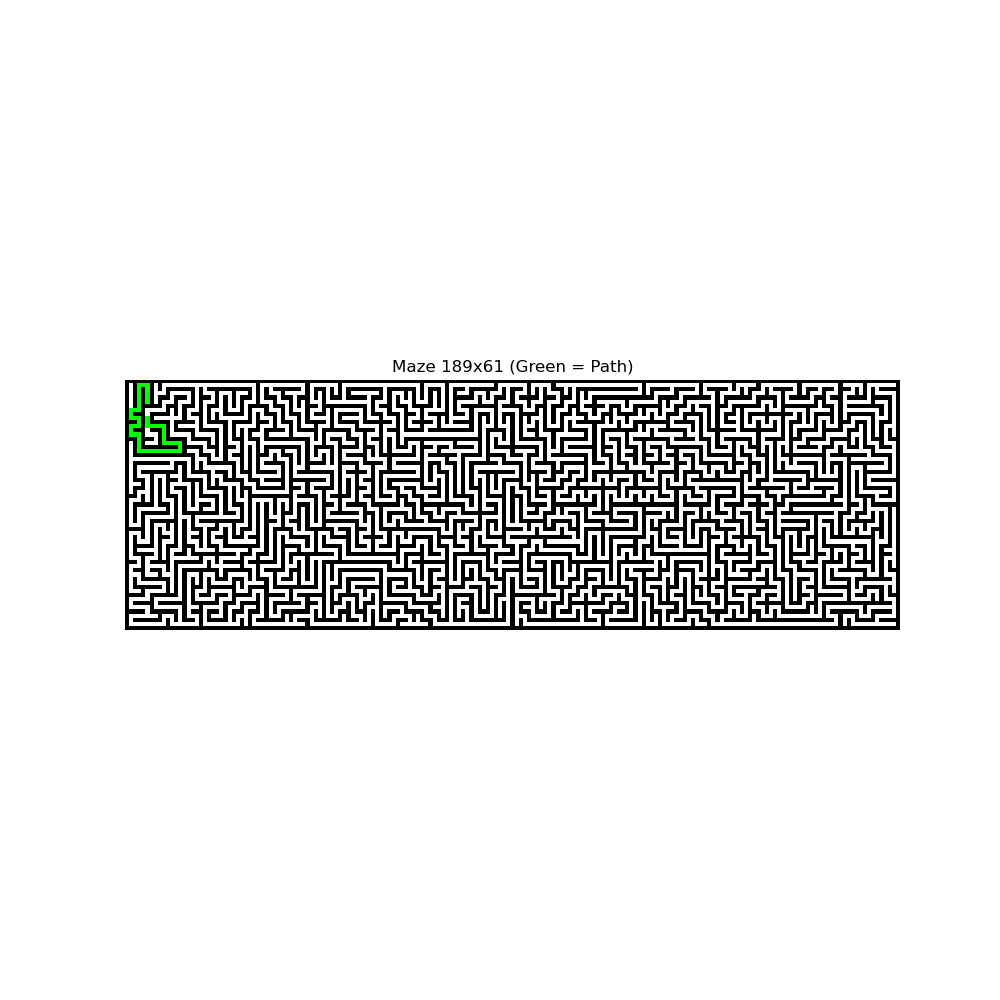
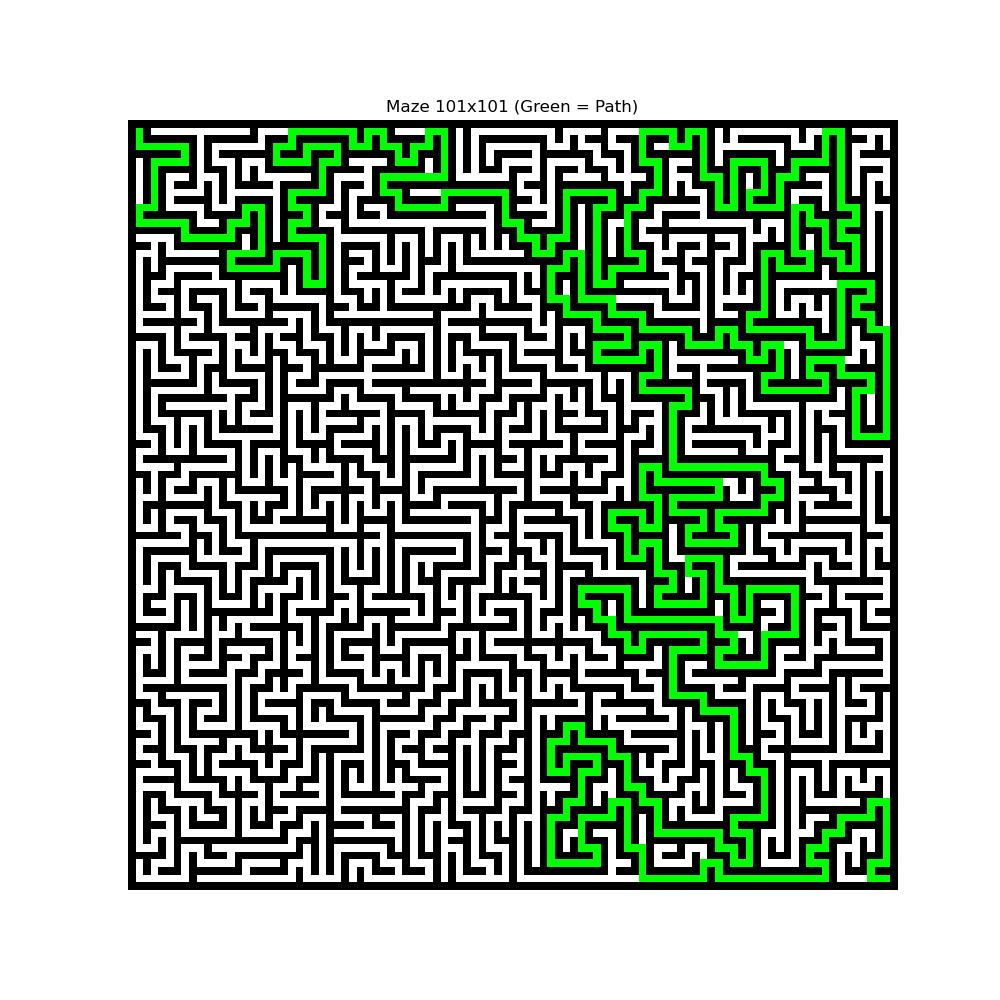
recursive backtracker: progress

diff --git a/amz_recursive_backtracker.py b/amz_recursive_backtracker.py
@@ -8,10 +8,7 @@ import matplotlib.pyplot as plt
 sys.setrecursionlimit(50000)
 
 def grid_creator(height: int, width: int) -> n.ndarray:
-    if width % 2 == 0:
-        width += 1
-    if height % 2 == 0:
-        height += 1
+    
     maze = n.ones((height, width), dtype=int)
     return maze
 
@@ -55,7 +52,7 @@ def generate_maze(height: int, width: int, entry_point: tuple, exit_point) -> n.
     
     exit_x = exit_x if exit_x % 2 != 0 else exit_x + 1
     exit_y = exit_y if exit_y % 2 != 0 else exit_y + 1
-    
+
 
     entry_x = entry_x if entry_x % 2 != 0 else entry_x + 1
     entry_y = entry_y if entry_y % 2 != 0 else entry_y + 1
@@ -92,6 +89,7 @@ def imperfect_maze(maze, height, width, flawed):
 if __name__ == "__main__":
 
     from a_maze_ing_parsing_part import Combining_rules
+    import matplotlib.colors as mcolors
 
     tokens = Combining_rules()
     print("Parsed Configuration Tokens:", tokens)
@@ -106,13 +104,16 @@ if __name__ == "__main__":
         flawed = 0
     if seed is not None:
         random.seed(seed)
+    if width % 2 == 0:
+        width += 1
+    if height % 2 == 0:
+        height += 1
     
     maze = generate_maze(height, width, entry_point, exit_point)
     if not perfect:
         maze = imperfect_maze(maze, height, width, flawed)
     
     
-    import matplotlib.colors as mcolors
     
     display_maze = n.copy(maze)
     display_maze = display_maze.astype(float)

diff --git a/a_maze_ing_parsing_part.py b/a_maze_ing_parsing_part.py
@@ -1,4 +1,3 @@
-
 def validate_lines(config_lines: list[str]) -> dict[str:int | str]:
     tokens_to_return = {"WIDTH": 0, "HEIGHT": 0, "EXIT": {"x": 0, "y": 0},"ENTRY": {"x": 0, "y": 0},
                         "OUTPUT_FILE": None, "PERFECT": 0, "FLAWED": 0, "SEED": None}
@@ -86,7 +85,9 @@ def validate_tokens(config_tokens: dict) -> None:
 
 def Combining_rules() -> None:
     try:
-        with open("config.txt", "r") as f:
+        from sys import argv
+        config_file = argv[1]
+        with open(config_file, "r") as f:
             config_lines = [line.strip() for line in f]
         tokens = validate_lines(config_lines)
         validate_tokens(tokens)
